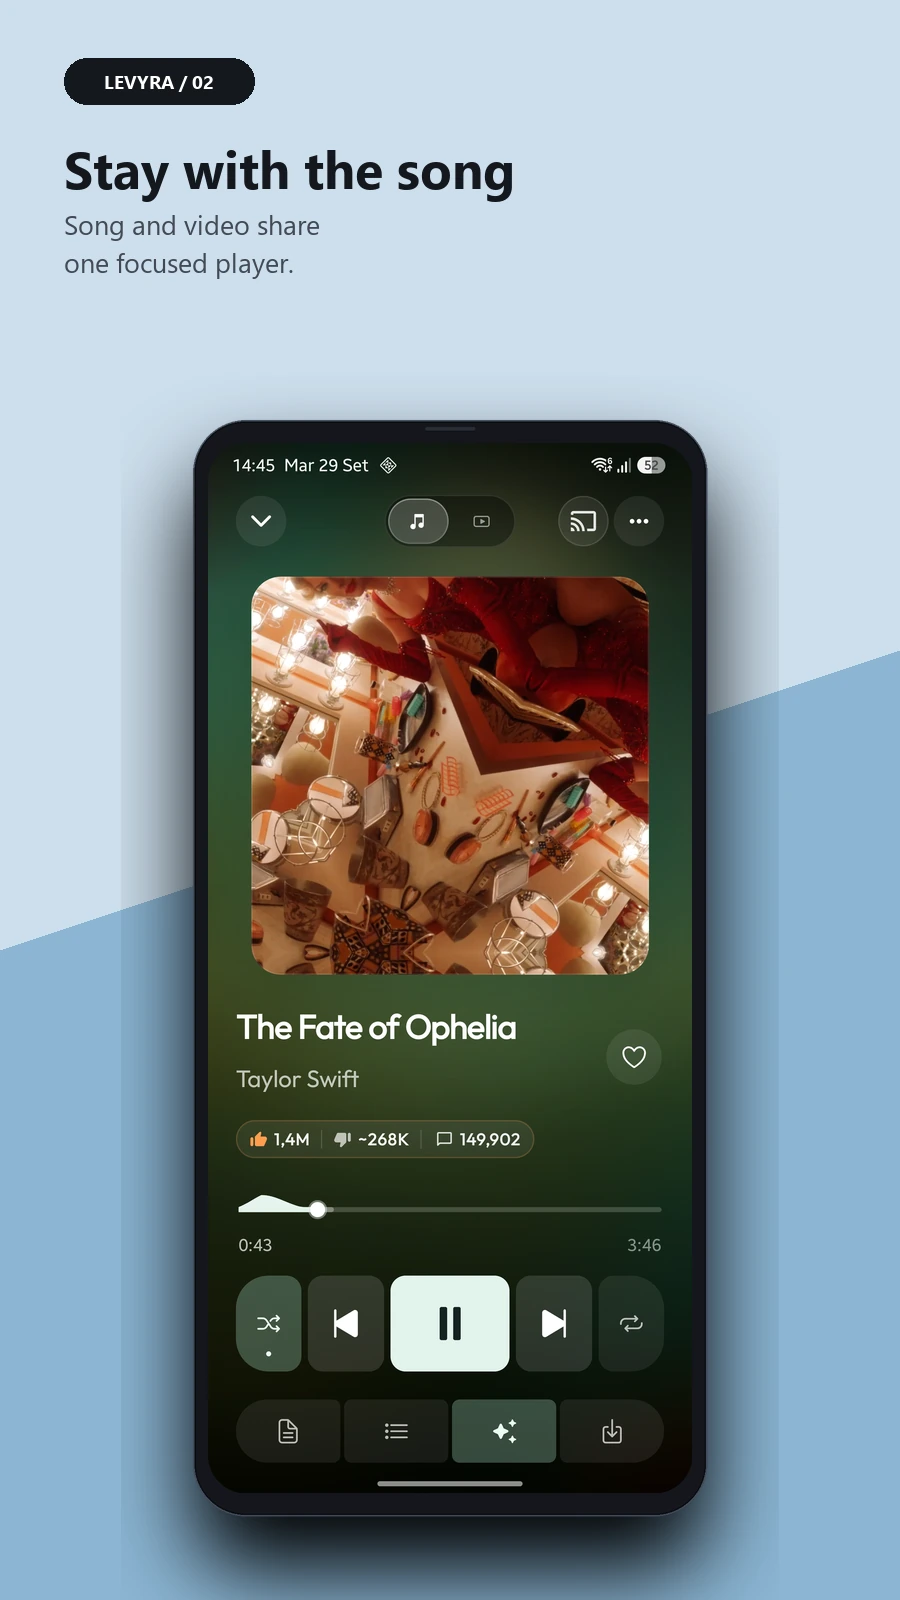
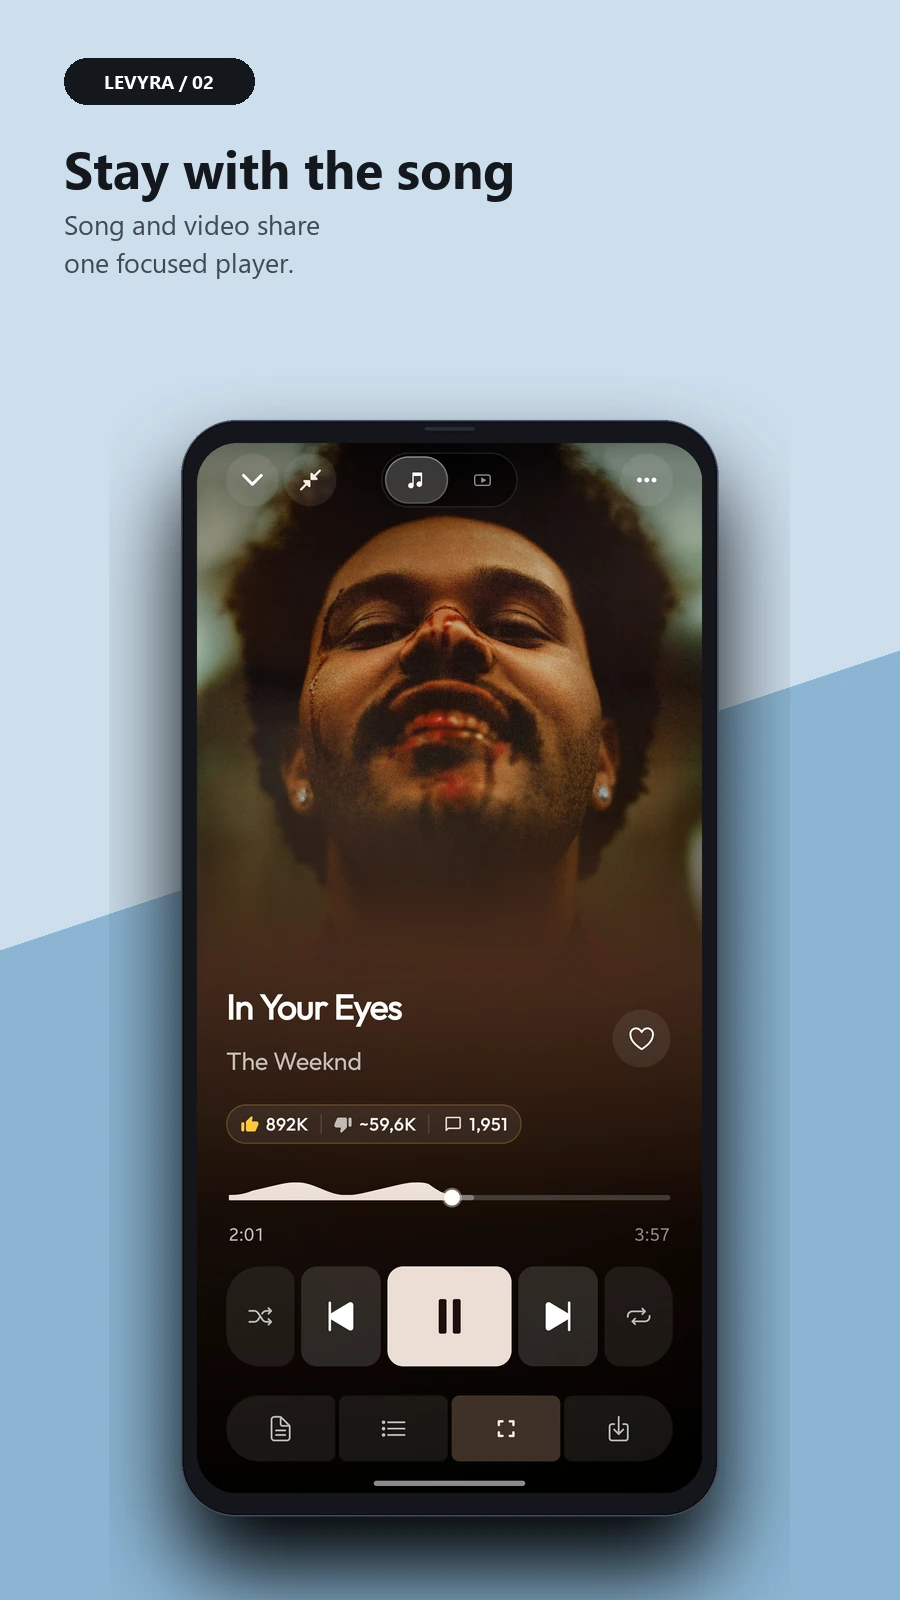
docs(readme): expand home showcase

Changed region(s): [[0.1867, 0.25, 0.8089, 0.9375]]

diff --git a/scripts/generate_showcase_assets.py b/scripts/generate_showcase_assets.py
@@ -11,11 +11,12 @@ os.makedirs(OUT_CARDS_DIR, exist_ok=True)
 
 SCREENS = {
     "home": "Screenshot_20260926_171253_LEVYRA.jpg",
+    "home_discovery": "Screenshot_20260905_135618_LEVYRA.jpg",
     "charts": "charts.png",
     "genres": "genres.png",
     "listening_pulse": "pulse.png",
     "lyrics": "lyrics.png",
-    "now_playing": "player.png",
+    "now_playing": "Screenshot_20260926_193948_LEVYRA.jpg",
     "search_artist": "search-artist.png",
     "artist_discography": "discography2.png",
     "artist_profile": "artist-profile.png",
@@ -433,6 +434,21 @@ def generate_feature_cards():
 
 def main():
     print("Generating refined Levyra showcase assets...")
+    generate_studio_dual_card(
+        "17_home_discovery",
+        "Home discovery",
+        "Keep discovering",
+        "Artists, Levyra Collections,\nand video in one continuous home.",
+        "home",
+        "home_discovery",
+        (73, 151, 255),
+        (211, 48, 170),
+        [
+            "Personal artists and releases",
+            "Collections shaped around your taste",
+            "Video when you want it",
+        ],
+    )
     generate_hero_panoramic_showcase()
     generate_feature_cards()
     print("Showcase generation completed successfully!")

diff --git a/README.md b/README.md
@@ -135,6 +135,12 @@ Artwork, lyrics, queue position, listening history and recommendations still bel
   <a href="docs/assets/showcase/cards/16_listening_rhythm.webp"><img src="docs/assets/showcase/cards/16_listening_rhythm.webp" width="200" alt="Levyra listening rhythm and habits" /></a>
 </p>
 
+<a href="docs/assets/showcase/17_home_discovery.webp"><img src="docs/assets/showcase/17_home_discovery.webp" width="100%" alt="Levyra Home with artists, curated collections, and video" /></a>
+
+<p align="center">
+  <sub>Move naturally from personal radio to artists, curated collections, and video.</sub>
+</p>
+
 </div>
 
 ---
